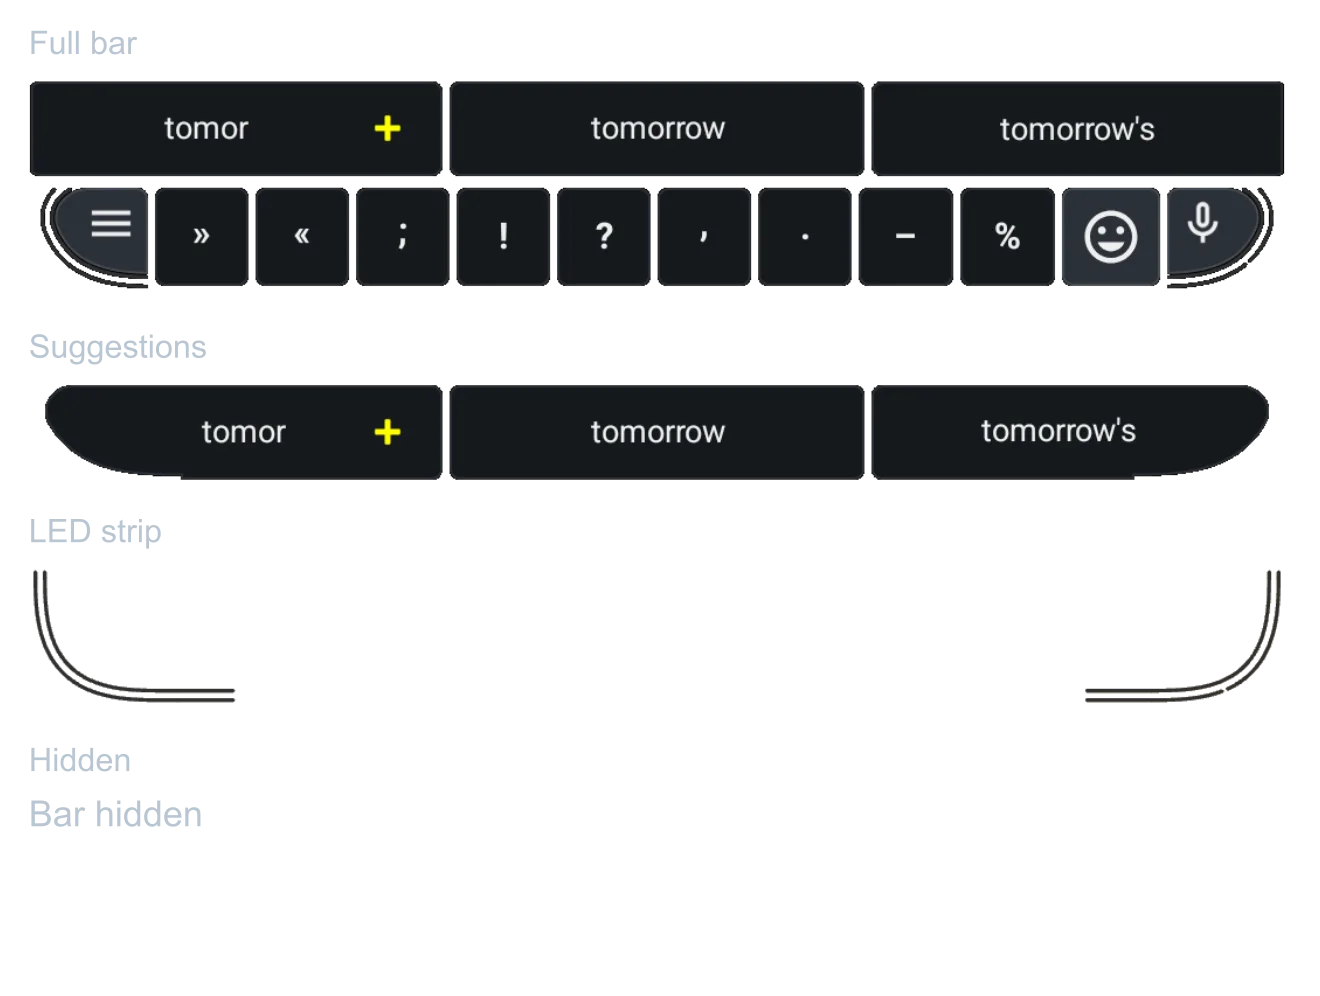
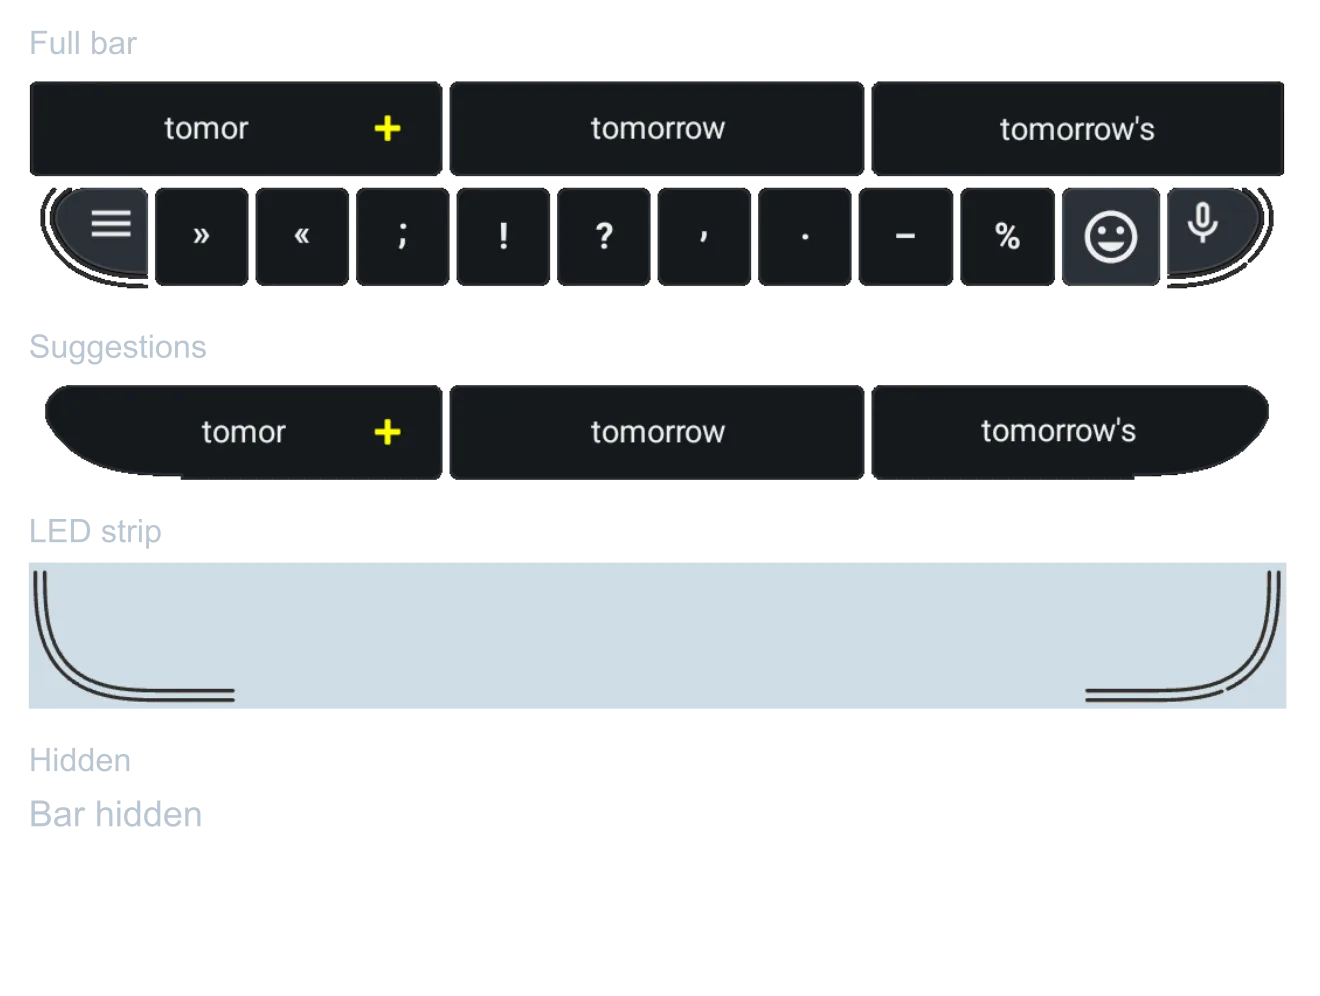
fix: retain contrast behind Nightly LED showcase
Keep a light surface behind the native dark LED strokes when the
web export removes the capture background. Refresh the asset version.

Changed region(s): [[0.0, 0.5602, 0.9939, 0.7159]]

diff --git a/index.html b/index.html
@@ -567,7 +567,7 @@
                 <figcaption><h4>Modular toolbar configuration</h4><p>Configure suggestions, character variations and menu buttons independently.</p></figcaption>
               </figure>
               <figure class="feature" data-reveal>
-                <button class="shot" type="button"><img src="/plektra/assets/shots/stable/03-bar-configurations.webp?v=573ceadc011e" data-shot="03-bar-configurations" width="1320" height="996" loading="lazy" alt="Four bar configurations: full bar, suggestions, LED strip and hidden" data-shot-version="573ceadc011e"></button>
+                <button class="shot" type="button"><img src="/plektra/assets/shots/stable/03-bar-configurations.webp?v=116b93d010e2" data-shot="03-bar-configurations" width="1320" height="996" loading="lazy" alt="Four bar configurations: full bar, suggestions, LED strip and hidden" data-shot-version="116b93d010e2"></button>
                 <figcaption><h4>Adjustable interface density</h4><p>Choose a full bar, compact controls, a modifier LED strip or a hidden bar.</p></figcaption>
               </figure>
               <figure class="feature" data-reveal>
